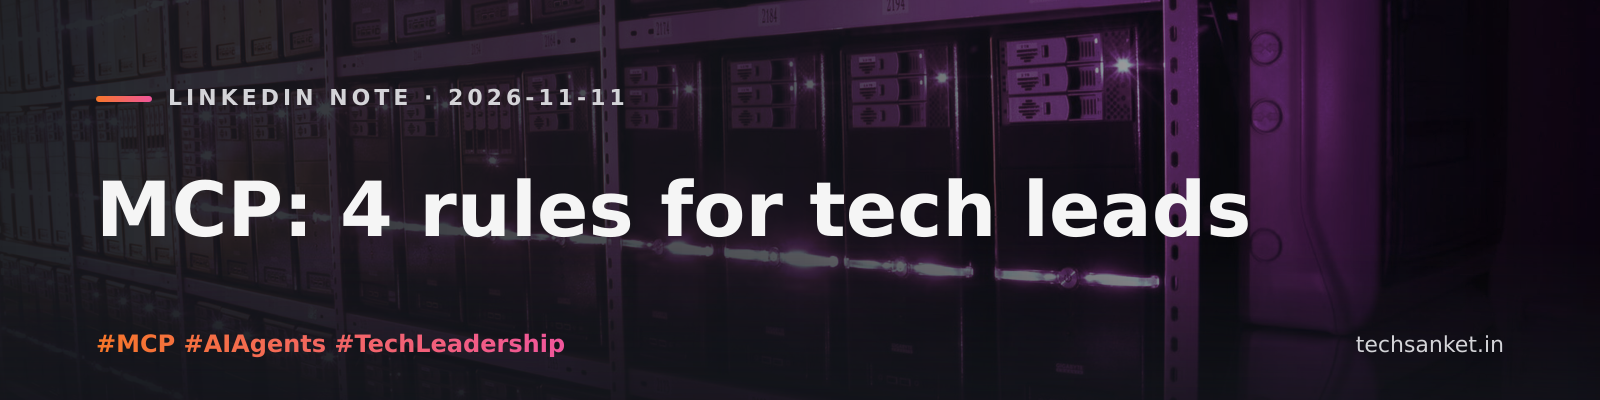
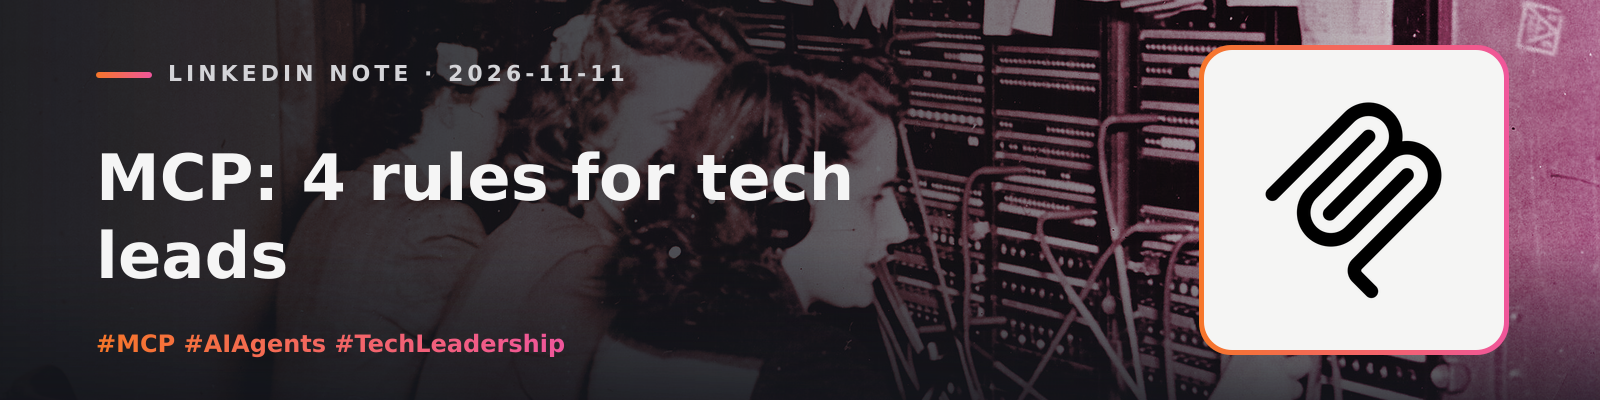
Post thumbnails and more relevant cover photos
- Cover script: a 16:9 thumbnail (photo plus framed subject, no text)
  is saved next to each cover and stored as `thumbnail` in frontmatter.
- The featured subject can now be a product shown by its logo (SVG lead
  images are framed whole on a light tile), not only a person.
- The planning prompt asks for real-world visual metaphors when a post
  is about an idea.
- /posts and other row lists show the thumbnail beside each post.
- Redrawn covers: MCP gets switchboard operators plus the MCP logo,
  vibe coding gets pilots in a cockpit. Picks made by hand from
  Wikimedia Commons; all credits are in imageCredits.

diff --git a/components/ui/Business/Markdown/MarkDownList.tsx b/components/ui/Business/Markdown/MarkDownList.tsx
@@ -1,4 +1,5 @@
 import { formatDate } from "@/lib/utils";
+import Image from "next/image";
 import Link from "next/link";
 import React from "react";
 import {
@@ -17,6 +18,8 @@ export type MarkdownMetaData = {
   title: string;
   author: string;
   image?: string;
+  /** 16:9 photo thumbnail for lists (no text baked in), e.g. "/images/posts/li-1-thumb.jpg". */
+  thumbnail?: string;
   /** Attribution for licensed photos in the cover image (Wikimedia Commons). */
   imageCredits?: { text: string; url?: string }[];
   publishDate: string;
@@ -71,18 +74,30 @@ const Rows = ({ metaList, redirectBase }: MarkdownListProps) => (
           className="group grid grid-cols-[2rem_1fr] gap-x-4 py-7 sm:grid-cols-[3rem_1fr_auto] sm:gap-x-6"
         >
           <span className="pt-1 font-medium text-[11px] text-muted-foreground">{pad(i)}</span>
-          <div className="min-w-0">
-            <Tags tags={item.tags} accentFirst />
-            <h3 className="mt-2 text-3xl leading-tight transition-colors group-hover:text-brand sm:text-[2.1rem]">
-              {item.title}
-            </h3>
-            <p className="mt-2 max-w-2xl text-sm leading-relaxed text-muted-foreground">
-              {item.summary}
-            </p>
-            <p className="mt-3 font-medium text-[11px] text-muted-foreground sm:hidden">
-              {item.publishDate && formatDate(item.publishDate)}
-              {item.readingMinutes ? ` · ${item.readingMinutes} min read` : ""}
-            </p>
+          <div className="min-w-0 sm:flex sm:items-start sm:gap-6">
+            {item.thumbnail && (
+              <Image
+                src={item.thumbnail}
+                alt=""
+                width={640}
+                height={360}
+                sizes="(min-width: 640px) 13rem, 100vw"
+                className="mb-4 aspect-video w-full rounded-md border object-cover transition-opacity group-hover:opacity-90 sm:order-last sm:mb-0 sm:w-52 sm:shrink-0"
+              />
+            )}
+            <div className="min-w-0 flex-1">
+              <Tags tags={item.tags} accentFirst />
+              <h3 className="mt-2 text-3xl leading-tight transition-colors group-hover:text-brand sm:text-[2.1rem]">
+                {item.title}
+              </h3>
+              <p className="mt-2 max-w-2xl text-sm leading-relaxed text-muted-foreground">
+                {item.summary}
+              </p>
+              <p className="mt-3 font-medium text-[11px] text-muted-foreground sm:hidden">
+                {item.publishDate && formatDate(item.publishDate)}
+                {item.readingMinutes ? ` · ${item.readingMinutes} min read` : ""}
+              </p>
+            </div>
           </div>
           <div className="hidden flex-col items-end justify-between text-right font-medium text-[11px] text-muted-foreground sm:flex">
             <div className="space-y-1.5">

diff --git a/content/posts/li-11851317.md b/content/posts/li-11851317.md
@@ -6,7 +6,8 @@ publishDate: "2026-11-11"
 source: "linkedin"
 linkedinUrl: "https://www.linkedin.com/feed/update/urn:li:share:7526200606441705472"
 image: "/images/posts/li-11851317.png"
-imageCredits: [{"text":"Background: BalticServers.com, CC BY-SA 3.0, via Wikimedia Commons","url":"https://commons.wikimedia.org/wiki/File:BalticServers_data_center.jpg"}]
+thumbnail: "/images/posts/li-11851317-thumb.jpg"
+imageCredits: [{"text":"Logo of Model Context Protocol: Model Context Protocol, Public domain, via Wikimedia Commons","url":"https://commons.wikimedia.org/wiki/File:Model_Context_Protocol_logo.svg"},{"text":"Background: David Bedard, Public domain, via Wikimedia Commons","url":"https://commons.wikimedia.org/wiki/File:JBER_telephone_operators_connect_calls,_people_120124-A-ZY202-001.jpg"}]
 ---
 
 We connected AI agents to our internal tools using MCP. They now read tickets, test the app, and check the database on their own.

diff --git a/content/posts/li-11777519.md b/content/posts/li-11777519.md
@@ -6,7 +6,8 @@ publishDate: "2026-11-08"
 source: "linkedin"
 linkedinUrl: "https://www.linkedin.com/feed/update/urn:li:share:7525050021579337729"
 image: "/images/posts/li-11777519.png"
-imageCredits: [{"text":"Background: Free-Photos from Pixabay, CC0, via Wikimedia Commons","url":"https://commons.wikimedia.org/wiki/File:ComputerProgrammer.jpg"}]
+thumbnail: "/images/posts/li-11777519-thumb.jpg"
+imageCredits: [{"text":"Background: U.S. Navy photo by Mass Communication Specialist 2nd Class Eric A. Pastor, Public domain, via Wikimedia Commons","url":"https://commons.wikimedia.org/wiki/File:Cockpit_of_P-8A_Poseidon_of_VP-16_in_March_2014.JPG"}]
 ---
 
 I'll be honest — I'm still figuring this out.

diff --git a/content/posts/li-11888000.md b/content/posts/li-11888000.md
@@ -6,6 +6,7 @@ publishDate: "2026-11-13"
 source: "linkedin"
 linkedinUrl: "https://www.linkedin.com/feed/update/urn:li:share:7526856382415896576"
 image: "/images/posts/li-11888000.png"
+thumbnail: "/images/posts/li-11888000-thumb.jpg"
 imageCredits: [{"text":"Photo of Jensen Huang: Anderseidesvik, CC BY-SA 4.0, via Wikimedia Commons","url":"https://commons.wikimedia.org/wiki/File:Jensen_Huang_Stanford_2026-04-30_010_(cropped).jpg"},{"text":"Background: Valdemar Baes Aaholst, CC BY 4.0, via Wikimedia Commons","url":"https://commons.wikimedia.org/wiki/File:Press_Photographers_at_Amalienborg_2026.png"}]
 ---
 
